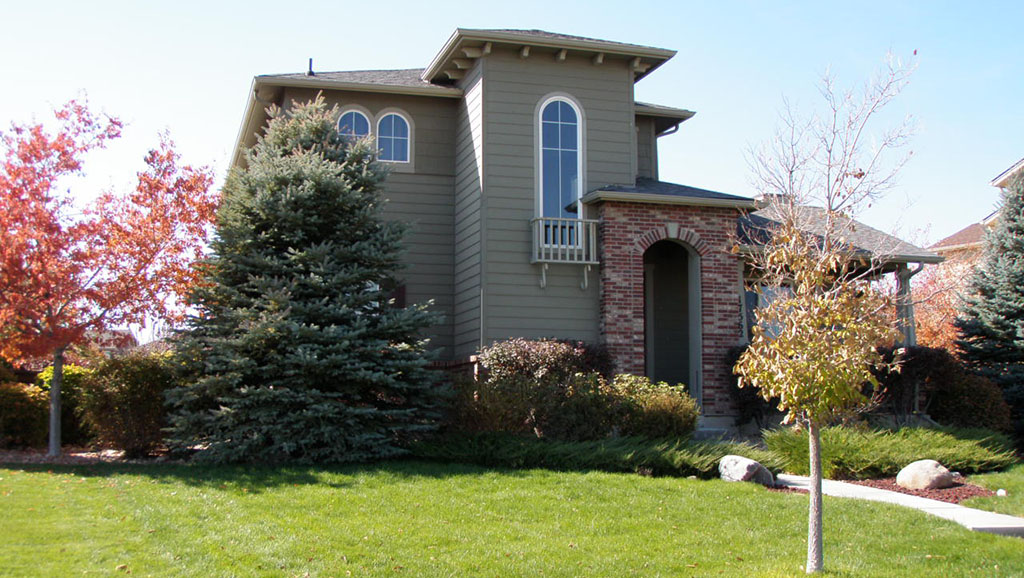
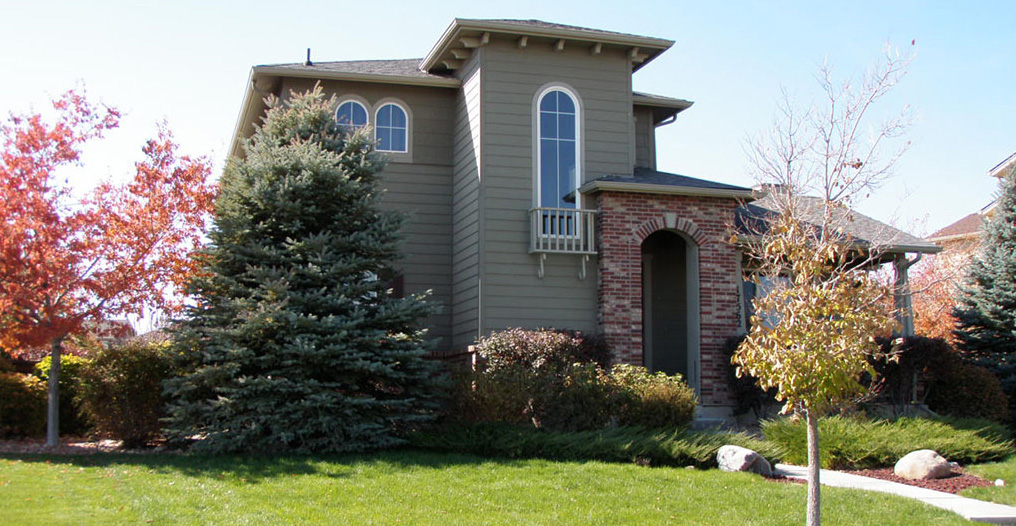
added Jason + Lauren's house photo, Testimonials. Updated carousel w new testimonial. Added pull, push columns to Meet Us section so Scott's profile is first in mobile view.

diff --git a/Index.html b/Index.html
@@ -184,7 +184,7 @@
 		   
 		       <div class="item">
 			     <img class="img-responsive" height="auto" width="100%" src="images/Huff_richthofen_lg.jpg">
-        			<div class="carousel-caption" id="carousel-img2">
+        			<div class="carousel-caption" id="carousel-img4">
 					<div id="quote-4" class="quote-text">
 					  <h2>Dave H.</h2>
             		  <p class="copy-text-lt">"I have used Scott for multiple real estate transactions for both investments and personal sales and purchases. 
@@ -193,16 +193,30 @@
                         Scott also has an easiness to his personality which makes him great to work with.”</p>
 		            </div>
 					  <button type="button" id="hide-btn-4" class="btn btn-sm">Hide Quote</button>
-					
 					</div><!--end carousel-caption-->
 			   </div><!--end item-->
-		   <!-- Bottom Carousel Indicators -->
+			   
+			   <div class="item">
+			     <img class="img-responsive" height="auto" width="100%" src="images/Jason_Lauren-house.jpg">
+        			<div class="carousel-caption" id="carousel-img5">
+					<div id="quote-5" class="quote-text">
+					  <h2>Jason & Lauren</h2>
+            		  <p class="copy-text-lt">"My wife and I were under an extremely tight schedule to sell our house and relocate our family. 
+                        Scott was professional, available, and extremely helpful. Scott took what could have been a nightmare rush and helped turn it into a positive experience.
+                        I cannot emphasize enough how helpful Scott was and how far above and beyond he went to ensure my wife and I were able to meet our deadlines.  
+                        We had a fantastic experience start to finish and highly recommend Scott!"</p>
+		            </div>
+					  <button type="button" id="hide-btn-5" class="btn btn-sm">Hide Quote</button>
+					</div><!--end carousel-caption-->
+			   </div><!--end item-->
 		   
+		   <!-- Bottom Carousel Indicators --> 
 		   <ol class="carousel-indicators">
               <li data-target="#featured" data-slide-to="0" class="active"></li>
               <li data-target="#featured" data-slide-to="1" class=""></li>
               <li data-target="#featured" data-slide-to="2" class=""></li>
 			  <li data-target="#featured" data-slide-to="3" class=""></li>
+			  <li data-target="#featured" data-slide-to="4" class=""></li>
            </ol>
 		     <a class="right carousel-control" href="#featured" role="button" data-slide="next"><span class="glyphicon glyphicon-chevron-right"></span></a>
 		     <a class="left carousel-control" href="#featured" role="button" data-slide="prev"><span class="glyphicon glyphicon-chevron-left"></span></a> 
@@ -224,9 +238,20 @@
              <p class="page-h1-lt">MEET <span style="color:#DF5A48">US.</p></span>
 		  </div><!--end column-->
 		</div><!--end row-->
-		
 		<div class="row">
-		  <div class="col-md-4">
+		 <div id="Scott" class="col-xs-12 col-md-4 col-md-push-4">
+			<br><!--image placeholder-->
+    			<img src="images/Gizmo.jpg" class="img-responsive center-block img-circle">
+    			<p class="h2-lt text-center"><span style="color:#DF5A48">Scott Nelson</span></p>
+    			<p class="subhead text-center">Founder & <br>Managing Broker</p><br>
+    			<p class="bio-text text-center">Founder and broker Scott Nelson, a Colorado native, has been selling real estate for over 15 years and has 
+    			extensive experience with single-family, multi-family, bank, and government-owned properties. 
+				Scott enjoys getting to know each client as he helps them through the challenges of real estate purchases and sales.
+				Scott also provides detailed guidance on real estate investment options - from rental analysis and simple remodels to high-end development.
+		  </div><!--end column-->
+		  
+		
+		  <div id="David" class="col-xs-12 col-md-4 col-md-pull-4">
 			<br><!--image placeholder-->
 			<img src="images/Gizmo.jpg" class="img-responsive center-block img-circle">
 			<p class="h2-lt text-center"><span style="color:#DF5A48">David Weiss</span></p>
@@ -237,18 +262,8 @@
             for both short term and long term gain.</p>
 		  </div><!--end column-->
 			
-		  <div class="col-md-4">
-			<br><!--image placeholder-->
-    			<img src="images/Gizmo.jpg" class="img-responsive center-block img-circle">
-    			<p class="h2-lt text-center"><span style="color:#DF5A48">Scott Nelson</span></p>
-    			<p class="subhead text-center">Founder & <br>Managing Broker</p><br>
-    			<p class="bio-text text-center">Founder and broker Scott Nelson, a Colorado native, has been selling real estate for over 15 years and has 
-    			extensive experience with single-family, multi-family, bank, and government-owned properties. 
-				Scott enjoys getting to know each client as he helps them through the challenges of real estate purchases and sales.
-				Scott also provides detailed guidance on real estate investment options - from rental analysis and simple remodels to high-end development.
-		  </div><!--end col-md-4-->
 			
-		  <div class="col-md-4">
+		  <div id="Brian" class="col-xs-12 col-md-4">
 			<br><!--image placeholder-->
 			<img src="images/Gizmo.jpg" class="img-responsive center-block img-circle">
 			<p class="h2-lt text-center"><span style="color:#DF5A48">Brian Haddad</span></p>
@@ -258,8 +273,9 @@
 				  family and small multi-family units since 2008. With an investor mentality in mind, he has created 
                   some money saving strategies and tips to maximize profits for owners. 
 				  As a former Captain in the Army, he specializes in attention for detail and manages properties as if they were his own.</p>
-		  </div><!--end col-md-4-->	
+		  </div><!--end column-->	
 		</div><!--end row-->
+		
 	  </div><!--end container-->
 	<div class="section-pad"></div>
   </section>

diff --git a/js/Rivendell.js b/js/Rivendell.js
@@ -78,5 +78,15 @@ $(document).ready(function() {
             $('#quote-4').fadeToggle( "slow" );
         }
     });
+	
+	$('#hide-btn-5').on('click', function () {
+        if ($('#quote-5').is(':visible')) {
+            $(this).text('Show Quote');
+            $('#quote-5').fadeToggle( "slow" );
+        } else {
+            $(this).text("Hide Quote");
+            $('#quote-5').fadeToggle( "slow" );
+        }
+    });
 });
 
